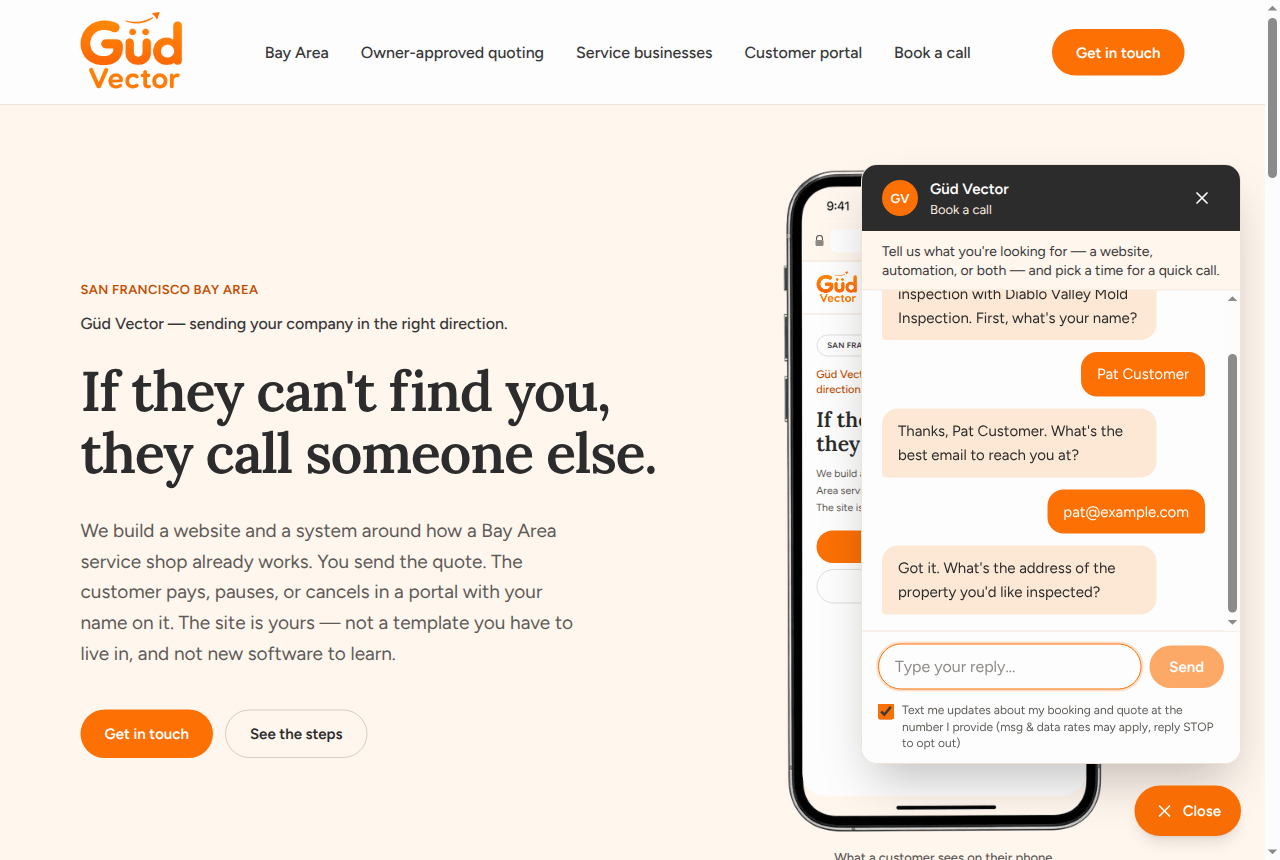
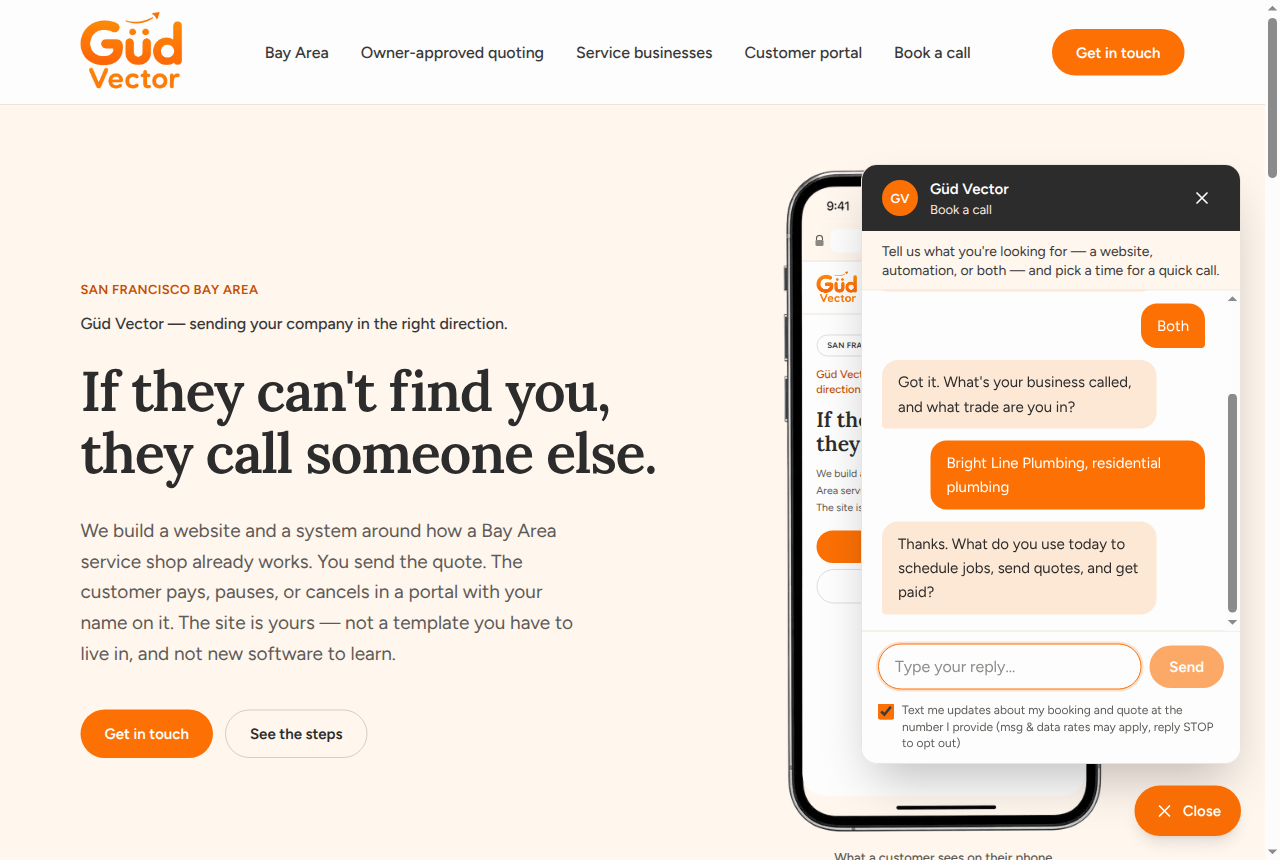
Neutral Güd Vector copy for the mock intake agent; re-capture chat compliance screenshot

Changed region(s): [[0.6875, 0.3326, 0.9688, 0.6953]]

diff --git a/src/lib/gvas.ts b/src/lib/gvas.ts
@@ -571,7 +571,8 @@ export function intakeTransport(): "direct" | "proxy" {
 
 type MockIntakeConversation = IntakeConversation & {
   token: string;
-  step: "name" | "email" | "address" | "problem" | "slot" | "done";
+  step: "need" | "business" | "tools" | "timeline" | "name" | "email" | "slot" | "done";
+  details: string[];
   smsConsent?: boolean;
 };
 
@@ -581,8 +582,8 @@ const mockIntake: Map<string, MockIntakeConversation> = (() => {
   return g.__gvasMockIntake;
 })();
 
-const MOCK_INTAKE_GREETING =
-  "Hi! I can help you book an inspection with Diablo Valley Mold Inspection. First, what's your name?";
+const MOCK_INTAKE_OPENING =
+  "I can help you book a free discovery call with Güd Vector. Are you looking for a website, automation, or both?";
 
 function mockIntakeSlots(): IntakeSlot[] {
   const base = new Date();
@@ -602,12 +603,11 @@ function mockIntakeStart(name: string | null): IntakeStartResponse {
   const conversationId = `conv_${Math.random().toString(36).slice(2, 10)}`;
   const token = `mock-conv-${Math.random().toString(36).slice(2)}`;
   const now = new Date().toISOString();
-  const greeting = name
-    ? `Hi ${name}! I can help you book an inspection. What's the service address?`
-    : MOCK_INTAKE_GREETING;
+  const greeting = `Hi${name ? ` ${name}` : ""}! ${MOCK_INTAKE_OPENING}`;
   mockIntake.set(conversationId, {
     token,
-    step: name ? "address" : "name",
+    step: "need",
+    details: [],
     state: "collecting",
     messages: [{ role: "agent", content: greeting, createdAt: now }],
     slots: null,
@@ -641,7 +641,39 @@ function mockIntakeReply(
   const summary = conv.summary ?? { name: null, email: null, phone: null, address: null, problem: null };
   let reply: string;
 
+  const proposeSlots = () => {
+    summary.problem = conv.details.join("\n");
+    conv.step = "slot";
+    conv.state = "proposing_slots";
+    conv.slots = mockIntakeSlots();
+    return "That's everything I need. Here are a few times for a quick call — pick one and Cameron will confirm.";
+  };
+
   switch (conv.step) {
+    case "need":
+      conv.details.push(`Looking for: ${message}`);
+      conv.step = "business";
+      reply = "Got it. What's your business called, and what trade are you in?";
+      break;
+    case "business":
+      conv.details.push(`Business: ${message}`);
+      conv.step = "tools";
+      reply = "Thanks. What do you use today to schedule jobs, send quotes, and get paid?";
+      break;
+    case "tools":
+      conv.details.push(`Current tools: ${message}`);
+      conv.step = "timeline";
+      reply = "Helpful. What's your timeline — when would you like this up and running?";
+      break;
+    case "timeline":
+      conv.details.push(`Timeline: ${message}`);
+      if (summary.name && summary.email) {
+        reply = proposeSlots();
+      } else {
+        conv.step = "name";
+        reply = "Great. What's your name?";
+      }
+      break;
     case "name":
       summary.name = message;
       conv.step = "email";
@@ -649,20 +681,7 @@ function mockIntakeReply(
       break;
     case "email":
       summary.email = message;
-      conv.step = "address";
-      reply = "Got it. What's the address of the property you'd like inspected?";
-      break;
-    case "address":
-      summary.address = message;
-      conv.step = "problem";
-      reply = "Perfect. Briefly, what's going on? (Visible growth, a musty smell, recent water damage…)";
-      break;
-    case "problem":
-      summary.problem = message;
-      conv.step = "slot";
-      conv.state = "proposing_slots";
-      conv.slots = mockIntakeSlots();
-      reply = "That's everything I need. Here are a few times that could work — pick one and Cameron will confirm.";
+      reply = proposeSlots();
       break;
     case "slot": {
       const start = message.startsWith(INTAKE_SLOT_PREFIX)
